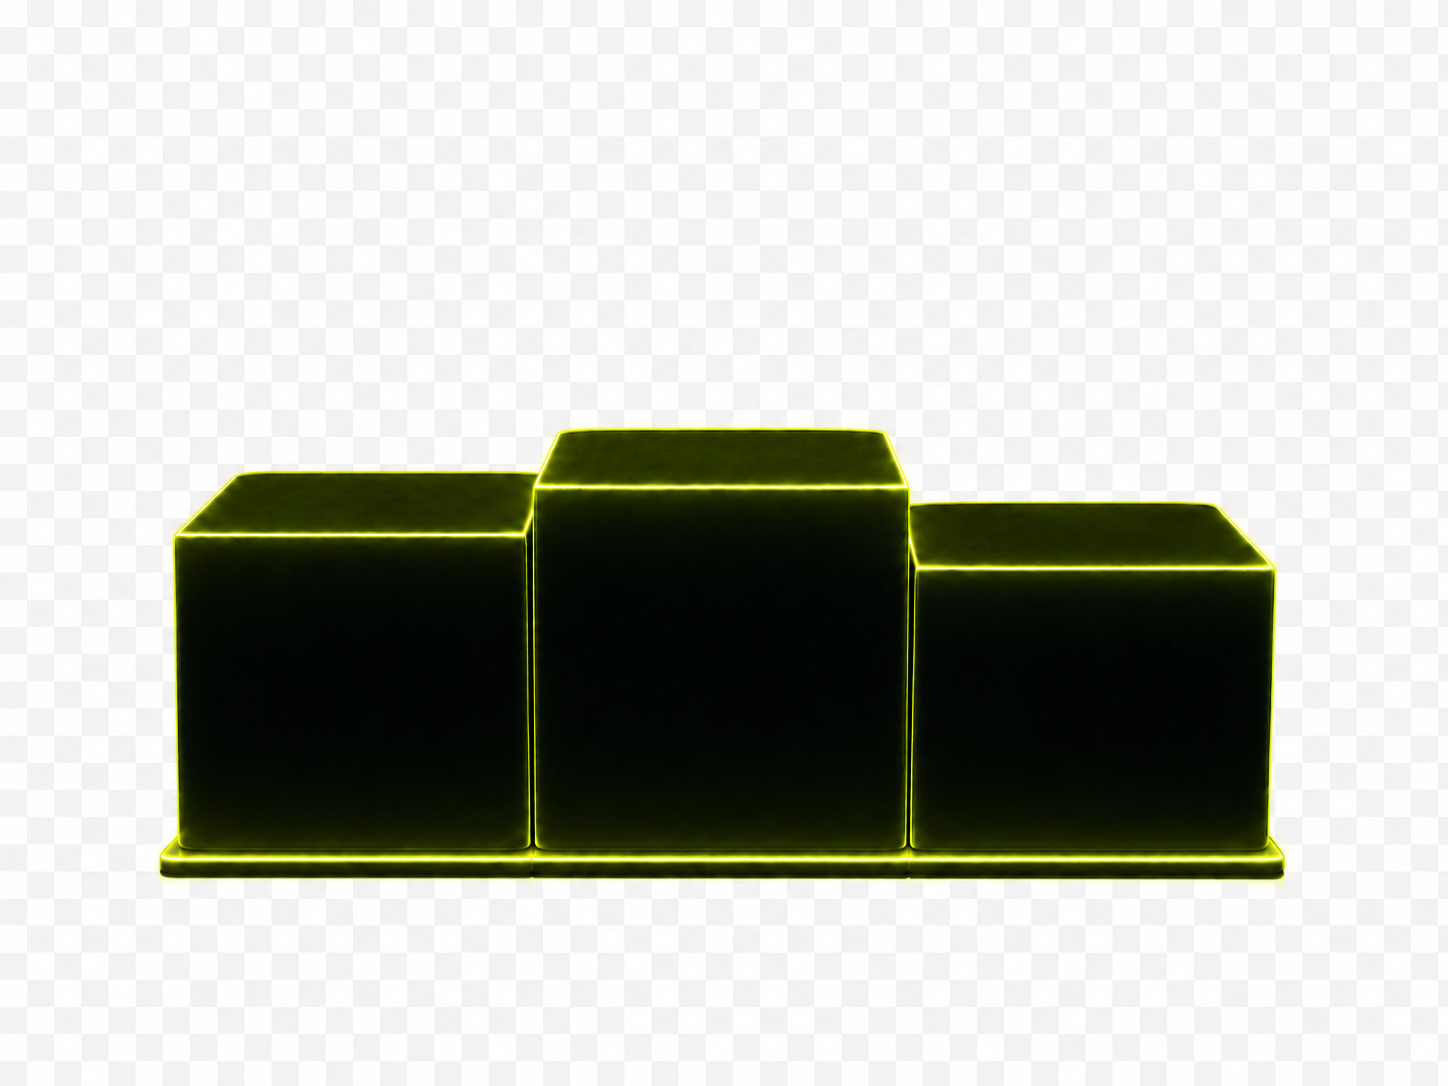
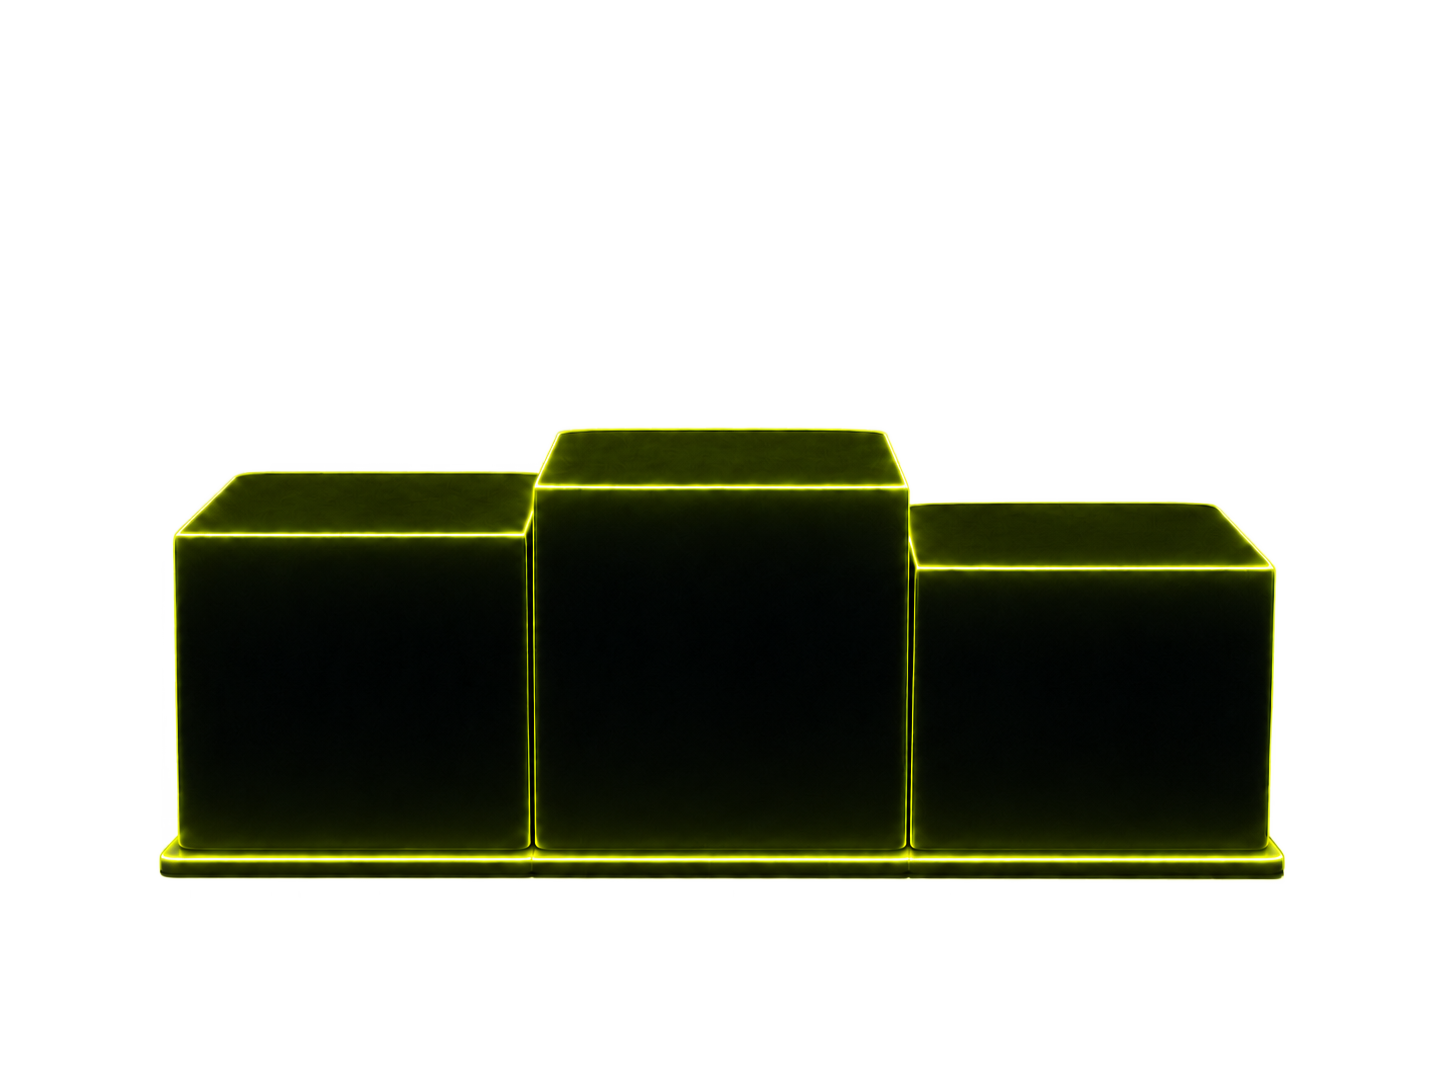
adjust leaderboard style

diff --git a/src/app/tasktimer/styles/08-friends.css b/src/app/tasktimer/styles/08-friends.css
@@ -1392,8 +1392,10 @@ body[data-theme="lime"] .friendSharedTaskCard.friendSharedTaskCardState-running{
 
 #app[aria-label="TaskLaunch App"] #appPageLeaderboard .leaderboardScrollBody{
   flex:1 1 auto;
+  display:flex;
+  flex-direction:column;
   min-height:0;
-  overflow-y:auto;
+  overflow-y:hidden;
   overflow-x:hidden;
   -webkit-overflow-scrolling:touch;
 }
@@ -1529,6 +1531,7 @@ body[data-theme="lime"] .friendSharedTaskCard.friendSharedTaskCardState-running{
   display:block;
   width:74px;
   height:74px;
+  margin-top:-18px;
 }
 
 #app[aria-label="TaskLaunch App"] #appPageLeaderboard .leaderboardWeeklyPodiumPlace1 .leaderboardWeeklyPodiumAvatar{
@@ -1877,8 +1880,8 @@ body[data-theme="lime"] .friendSharedTaskCard.friendSharedTaskCardState-running{
 #app[aria-label="TaskLaunch App"] #leaderboardWeeklyPanel .leaderboardWeeklyStageAvatarSlot{
   position:absolute;
   left:50%;
-  top:9%;
-  z-index:1;
+  bottom:72%;
+  z-index:3;
   display:block;
   width:43%;
   aspect-ratio:1;
@@ -1886,16 +1889,16 @@ body[data-theme="lime"] .friendSharedTaskCard.friendSharedTaskCardState-running{
 }
 
 #app[aria-label="TaskLaunch App"] #leaderboardWeeklyPanel .leaderboardWeeklyStageHotspot1 .leaderboardWeeklyStageAvatarSlot{
-  top:17%;
+  bottom:63%;
   width:48%;
 }
 
 #app[aria-label="TaskLaunch App"] #leaderboardWeeklyPanel .leaderboardWeeklyStageHotspot2 .leaderboardWeeklyStageAvatarSlot{
-  top:5%;
+  bottom:72%;
 }
 
 #app[aria-label="TaskLaunch App"] #leaderboardWeeklyPanel .leaderboardWeeklyStageHotspot3 .leaderboardWeeklyStageAvatarSlot{
-  top:7%;
+  bottom:74%;
 }
 
 #app[aria-label="TaskLaunch App"] #leaderboardWeeklyPanel .leaderboardWeeklyStageAvatarSlot .leaderboardAvatar{
@@ -1996,6 +1999,60 @@ body[data-theme="lime"] .friendSharedTaskCard.friendSharedTaskCardState-running{
 
 #app[aria-label="TaskLaunch App"] #leaderboardWeeklyPanel .leaderboardWeeklyLiveTableWrap .leaderboardWeeklyTable{
   width:100%;
+}
+
+body[data-app-page="leaderboard"] #app[aria-label="TaskLaunch App"] #appPageLeaderboard .leaderboardScrollBody > .leaderboardWeeklyBoard,
+body[data-app-page="leaderboard"] #app[aria-label="TaskLaunch App"] #appPageLeaderboard .leaderboardScrollBody > .leaderboardGlobalBoard{
+  flex:1 1 auto;
+  height:100%;
+  max-height:100%;
+  min-height:0;
+}
+
+body[data-app-page="leaderboard"] #app[aria-label="TaskLaunch App"] #leaderboardWeeklyPanel.leaderboardWeeklyBoard,
+body[data-app-page="leaderboard"] #app[aria-label="TaskLaunch App"] #leaderboardRivalsPanel.leaderboardWeeklyBoard{
+  display:flex;
+  flex-direction:column;
+}
+
+body[data-app-page="leaderboard"] #app[aria-label="TaskLaunch App"] #leaderboardWeeklyPanel .leaderboardWeeklyStage{
+  flex:0 1 auto;
+  height:clamp(390px, calc(100dvh - 360px), 610px);
+  min-height:0;
+  aspect-ratio:auto;
+}
+
+body[data-app-page="leaderboard"] #app[aria-label="TaskLaunch App"] #leaderboardWeeklyPanel .leaderboardWeeklyLiveTableWrap,
+body[data-app-page="leaderboard"] #app[aria-label="TaskLaunch App"] #leaderboardRivalsPanel .leaderboardWeeklyTableWrap{
+  flex:0 0 auto;
+  overflow:hidden;
+}
+
+body[data-app-page="leaderboard"] #app[aria-label="TaskLaunch App"] #appPageLeaderboard .leaderboardWeeklyTableWrap{
+  margin-top:10px;
+}
+
+body[data-app-page="leaderboard"] #app[aria-label="TaskLaunch App"] #appPageLeaderboard .leaderboardWeeklyTableRow{
+  min-height:38px;
+}
+
+body[data-app-page="leaderboard"] #app[aria-label="TaskLaunch App"] #appPageLeaderboard .leaderboardWeeklyTableHead{
+  min-height:28px;
+}
+
+body[data-app-page="leaderboard"] #app[aria-label="TaskLaunch App"] #appPageLeaderboard .leaderboardWeeklyTableRow > span{
+  padding:7px 12px;
+}
+
+body[data-app-page="leaderboard"] #app[aria-label="TaskLaunch App"] #leaderboardRivalsPanel .leaderboardWeeklyIntro{
+  flex:0 0 auto;
+  margin-bottom:4px;
+}
+
+body[data-app-page="leaderboard"] #app[aria-label="TaskLaunch App"] #leaderboardRivalsPanel .leaderboardWeeklyPodium{
+  flex:0 1 auto;
+  min-height:clamp(180px, 30dvh, 250px);
+  margin-top:6px;
 }
 
 #leaderboardPositionOverlay .leaderboardPositionModal{
@@ -2829,6 +2886,7 @@ body[data-app-page="friends"] #app[aria-label="TaskLaunch App"] #appPageFriends 
   #app[aria-label="TaskLaunch App"] #appPageLeaderboard .leaderboardWeeklyPodiumPlace1 .leaderboardWeeklyPodiumAvatar{
     width:42px;
     height:42px;
+    margin-top:0;
     margin-bottom:0;
   }
 
@@ -3131,6 +3189,13 @@ body[data-app-page="friends"] #app[aria-label="TaskLaunch App"] #appPageFriends 
   isolation:isolate;
 }
 
+body[data-app-page="leaderboard"] #app[aria-label="TaskLaunch App"] #leaderboardGlobalPanel .leaderboardGlobalStage{
+  height:100%;
+  max-height:100%;
+  min-height:0;
+  aspect-ratio:auto;
+}
+
 #app[aria-label="TaskLaunch App"] #leaderboardGlobalPanel .leaderboardGlobalBackdropMask{
   position:absolute;
   z-index:0;
@@ -3217,8 +3282,8 @@ body[data-app-page="friends"] #app[aria-label="TaskLaunch App"] #appPageFriends 
 #app[aria-label="TaskLaunch App"] #leaderboardGlobalPanel .leaderboardGlobalPodiumAvatarSlot{
   position:absolute;
   left:50%;
-  top:0;
-  z-index:1;
+  top:-4%;
+  z-index:3;
   display:block;
   width:42%;
   aspect-ratio:1;
@@ -3226,7 +3291,12 @@ body[data-app-page="friends"] #app[aria-label="TaskLaunch App"] #appPageFriends 
 }
 
 #app[aria-label="TaskLaunch App"] #leaderboardGlobalPanel .leaderboardGlobalPodiumHotspot1 .leaderboardGlobalPodiumAvatarSlot{
+  top:-8%;
   width:48%;
+}
+
+#app[aria-label="TaskLaunch App"] #leaderboardGlobalPanel .leaderboardGlobalPodiumHotspot2 .leaderboardGlobalPodiumAvatarSlot{
+  top:-5%;
 }
 
 #app[aria-label="TaskLaunch App"] #leaderboardGlobalPanel .leaderboardGlobalPodiumAvatarSlot .leaderboardAvatar{
@@ -3323,13 +3393,12 @@ body[data-app-page="friends"] #app[aria-label="TaskLaunch App"] #appPageFriends 
   position:absolute;
   left:1.6%;
   right:1.6%;
-  top:81%;
+  top:71%;
+  bottom:2.2%;
   z-index:3;
   display:grid;
-  max-height:15.6%;
-  overflow:auto;
-  scrollbar-width:thin;
-  scrollbar-color:rgba(103,255,159,.42) transparent;
+  max-height:none;
+  overflow:hidden;
 }
 
 #app[aria-label="TaskLaunch App"] #leaderboardGlobalPanel .leaderboardGlobalStageTableHead,
@@ -3350,7 +3419,7 @@ body[data-app-page="friends"] #app[aria-label="TaskLaunch App"] #appPageFriends 
   grid-template-columns:12.5% minmax(0, 34%) 17% 18% minmax(0, 18.5%);
   align-items:center;
   min-width:0;
-  min-height:70px;
+  min-height:clamp(34px, 4.4dvh, 46px);
   padding:0 2.4%;
   border:0;
   border-top:1px solid rgba(103,255,159,.2);
@@ -3469,6 +3538,7 @@ body[data-app-page="friends"] #app[aria-label="TaskLaunch App"] #appPageFriends 
   #app[aria-label="TaskLaunch App"] #leaderboardGlobalPanel .leaderboardGlobalStage{
     left:auto;
     width:100%;
+    height:clamp(300px, calc(100dvh - 390px), 430px);
     max-width:none;
     margin-left:auto;
     transform:none;
@@ -3504,7 +3574,7 @@ body[data-app-page="friends"] #app[aria-label="TaskLaunch App"] #appPageFriends 
 
   #app[aria-label="TaskLaunch App"] #leaderboardGlobalPanel .leaderboardGlobalMobileRow{
     grid-template-columns:42px minmax(0, 1fr) 38px minmax(58px, max-content) minmax(70px, max-content);
-    min-height:52px;
+    min-height:42px;
     padding:4px 2px;
   }
 
@@ -3557,6 +3627,7 @@ body[data-app-page="friends"] #app[aria-label="TaskLaunch App"] #appPageFriends 
   #app[aria-label="TaskLaunch App"] #leaderboardWeeklyPanel .leaderboardWeeklyStage{
     left:auto;
     width:100%;
+    height:clamp(300px, calc(100dvh - 390px), 430px);
     max-width:none;
     margin-left:auto;
     transform:none;
@@ -3583,6 +3654,16 @@ body[data-app-page="friends"] #app[aria-label="TaskLaunch App"] #appPageFriends 
     padding:8px 6px;
     border:0;
     background:transparent;
+  }
+
+  #app[aria-label="TaskLaunch App"] #leaderboardWeeklyPanel .leaderboardWeeklyTableRow,
+  #app[aria-label="TaskLaunch App"] #leaderboardRivalsPanel .leaderboardWeeklyTableRow{
+    min-height:42px;
+  }
+
+  #app[aria-label="TaskLaunch App"] #leaderboardWeeklyPanel .leaderboardWeeklyTableRow > span,
+  #app[aria-label="TaskLaunch App"] #leaderboardRivalsPanel .leaderboardWeeklyTableRow > span{
+    padding:3px 2px;
   }
 
   #app[aria-label="TaskLaunch App"] #leaderboardWeeklyPanel .leaderboardWeeklyStageRank{

diff --git a/src/app/tasktimer/TaskTimerMainAppClient.tsx b/src/app/tasktimer/TaskTimerMainAppClient.tsx
@@ -803,7 +803,7 @@ export default function TaskTimerMainAppClient({ initialPage }: TaskTimerMainApp
     [hydratedCurrentUserWeeklyEntry, hydratedWeeklyEntries, leaderboardData.currentUserWeeklyRank]
   );
   const weeklyPodiumRows = weeklyRows.filter((row) => row.rank && row.rank <= 3).slice(0, 3);
-  const weeklyTableRows = weeklyRows.filter((row) => (row.rank && row.rank >= 4 && row.rank <= 10) || (row.isPinnedCurrentUser && (!row.rank || row.rank > 10)));
+  const weeklyTableRows = weeklyRows.filter((row) => row.rank && row.rank >= 4 && row.rank <= 8);
   const hasWeeklyRows = weeklyRows.length > 0;
   const globalRows = useMemo(() => {
     return buildGlobalLeaderboardRows({
@@ -813,7 +813,7 @@ export default function TaskTimerMainAppClient({ initialPage }: TaskTimerMainApp
     });
   }, [hydratedCurrentUserEntry, hydratedTopEntries, leaderboardData.currentUserRank]);
   const globalPodiumRows = globalRows.filter((row) => row.rank && row.rank <= 3).slice(0, 3);
-  const globalTableRows = globalRows.filter((row) => (row.rank && row.rank >= 4 && row.rank <= 10) || (row.isPinnedCurrentUser && (!row.rank || row.rank > 10)));
+  const globalTableRows = globalRows.filter((row) => row.rank && row.rank >= 4 && row.rank <= 8);
   const hasGlobalRows = globalRows.length > 0;
   const rivalRows = useMemo(
     () =>
@@ -825,7 +825,7 @@ export default function TaskTimerMainAppClient({ initialPage }: TaskTimerMainApp
     [hydratedCurrentUserEntry, hydratedRivalEntries, leaderboardData.currentUserRivalRank]
   );
   const rivalPodiumRows = rivalRows.filter((row) => row.rank && row.rank <= 3).slice(0, 3);
-  const rivalTableRows = rivalRows.filter((row) => (row.rank && row.rank >= 4 && row.rank <= 10) || (row.isPinnedCurrentUser && (!row.rank || row.rank > 10)));
+  const rivalTableRows = rivalRows.filter((row) => row.rank && row.rank >= 4 && row.rank <= 8);
   const hasRivalRows = rivalRows.length > 0;
   const selectedLeaderboardLabel = selectedLeaderboardProfile ? getLeaderboardLabel(selectedLeaderboardProfile) : "";
   const selectedLeaderboardMemberSince = selectedLeaderboardProfile